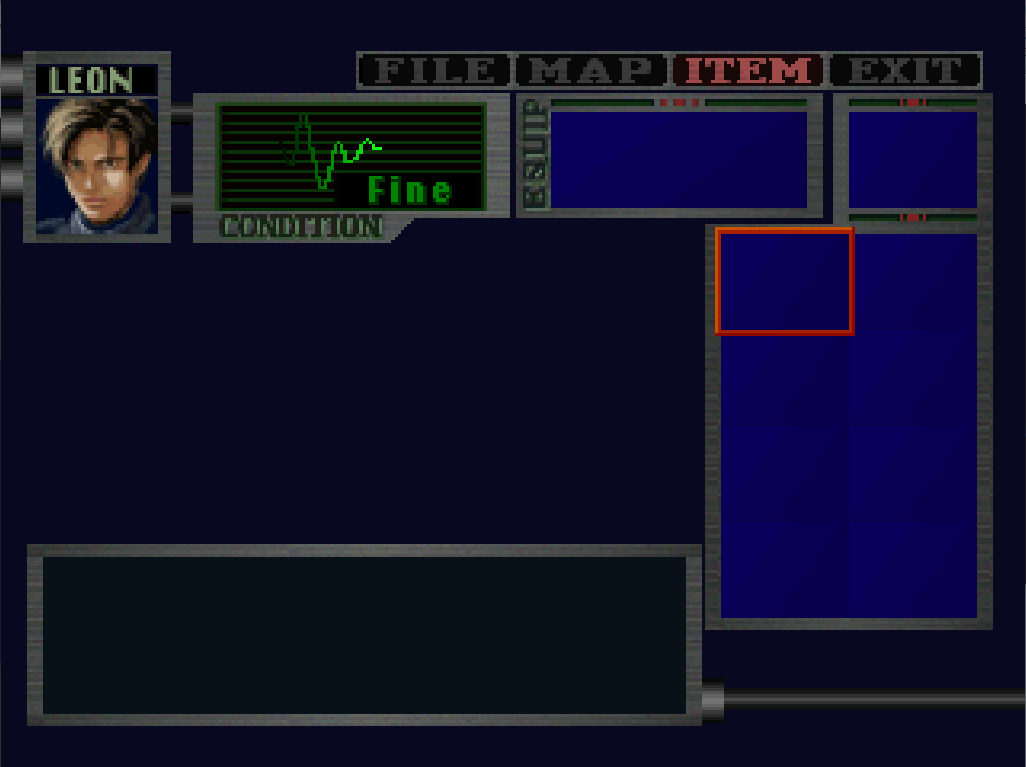
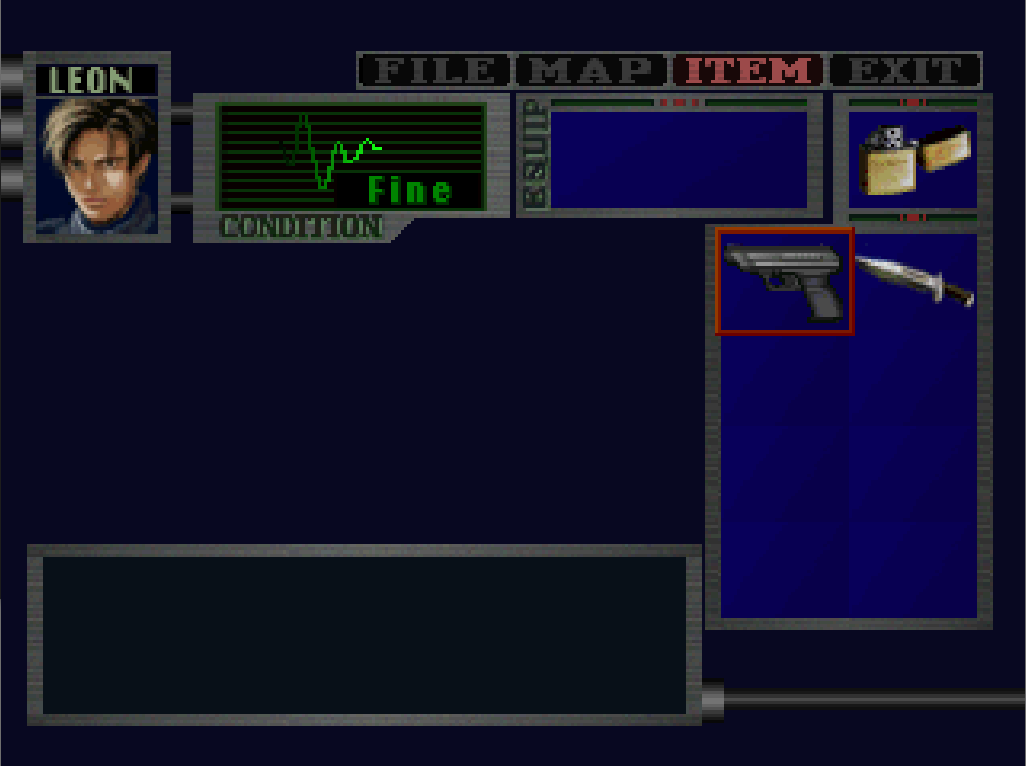
Display items in inventory

Changed region(s): [[0.6862, 0.2702, 0.9669, 0.4504], [0.9981, 0.1201, 1.0, 0.7807], [0.8109, 0.1501, 0.9669, 0.2702]]

diff --git a/render/menuinventory.go b/render/menuinventory.go
@@ -22,7 +22,15 @@ var (
 	Status_InventoryMainCursor = 0
 	Status_BlinkSwitch0        = false
 	Status_BlinkTimer0         = 50
+
+	playerInventoryItems = InitializeInventoryItems()
 )
+
+type InventoryItem struct {
+	Id   int
+	Num  int
+	Size int
+}
 
 func InitializeInventoryCursor() {
 	Status_Function0 = 3
@@ -31,6 +39,14 @@ func InitializeInventoryCursor() {
 	Status_InventoryMainCursor = 0
 	Status_BlinkSwitch0 = false
 	Status_BlinkTimer0 = 50
+}
+
+func InitializeInventoryItems() []InventoryItem {
+	playerInventoryItems := make([]InventoryItem, 11)
+	playerInventoryItems[0] = InventoryItem{Id: 2, Num: 18, Size: 1}                  // hand gun
+	playerInventoryItems[1] = InventoryItem{Id: 1, Num: 1, Size: 0}                   // knife
+	playerInventoryItems[RESERVED_ITEM_SLOT] = InventoryItem{Id: 47, Num: 1, Size: 0} // lighter
+	return playerInventoryItems
 }
 
 func (renderDef *RenderDef) GenerateInventoryImage(
@@ -48,14 +64,22 @@ func (renderDef *RenderDef) GenerateInventoryImage(
 
 func buildItems(inventoryImages []*fileio.TIMOutput, inventoryItemImages []*fileio.TIMOutput, newImageColors []uint16) {
 	// Item in top right corner
-	copyPixels(inventoryItemImages[0].PixelData, 0, 0, 40, 30, newImageColors, ITEMLIST_POS_X+45, ITEMLIST_POS_Y-35)
+	reservedItemX := (playerInventoryItems[RESERVED_ITEM_SLOT].Id % 6) * 40
+	reservedItemY := (playerInventoryItems[RESERVED_ITEM_SLOT].Id / 6) * 30
+	copyPixels(inventoryItemImages[0].PixelData, reservedItemX, reservedItemY, 40, 30, newImageColors, ITEMLIST_POS_X+45, ITEMLIST_POS_Y-35)
 
 	// Empty inventory slots
 	for row := 0; row < 4; row++ {
 		// left slot
-		copyPixels(inventoryItemImages[0].PixelData, 0, 0, 40, 30, newImageColors, ITEMLIST_POS_X+5, ITEMLIST_POS_Y+3+30*row)
+		leftItemIndex := (2 * row)
+		leftItemX := (playerInventoryItems[leftItemIndex].Id % 6) * 40
+		leftItemY := (playerInventoryItems[leftItemIndex].Id / 6) * 30
+		copyPixels(inventoryItemImages[0].PixelData, leftItemX, leftItemY, 40, 30, newImageColors, ITEMLIST_POS_X+5, ITEMLIST_POS_Y+3+30*row)
 		// right slot
-		copyPixels(inventoryItemImages[0].PixelData, 0, 0, 40, 30, newImageColors, ITEMLIST_POS_X+45, ITEMLIST_POS_Y+3+30*row)
+		rightItemIndex := (2 * row) + 1
+		rightItemX := (playerInventoryItems[rightItemIndex].Id % 6) * 40
+		rightItemY := (playerInventoryItems[rightItemIndex].Id / 6) * 30
+		copyPixels(inventoryItemImages[0].PixelData, rightItemX, rightItemY, 40, 30, newImageColors, ITEMLIST_POS_X+45, ITEMLIST_POS_Y+3+30*row)
 	}
 
 	// Equipped item
